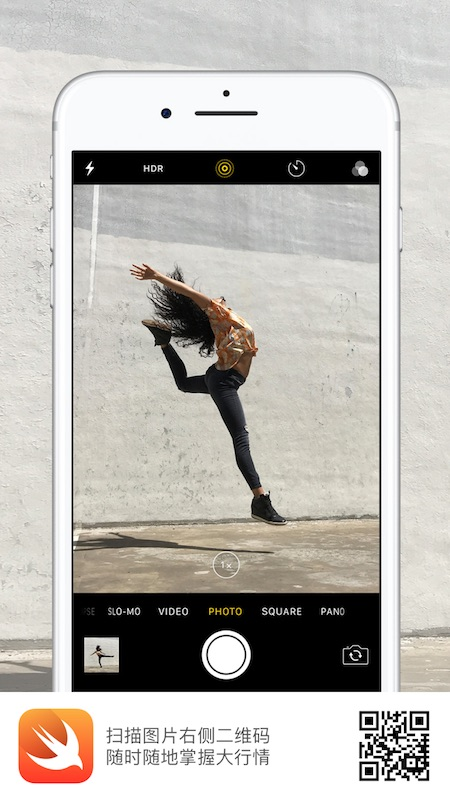
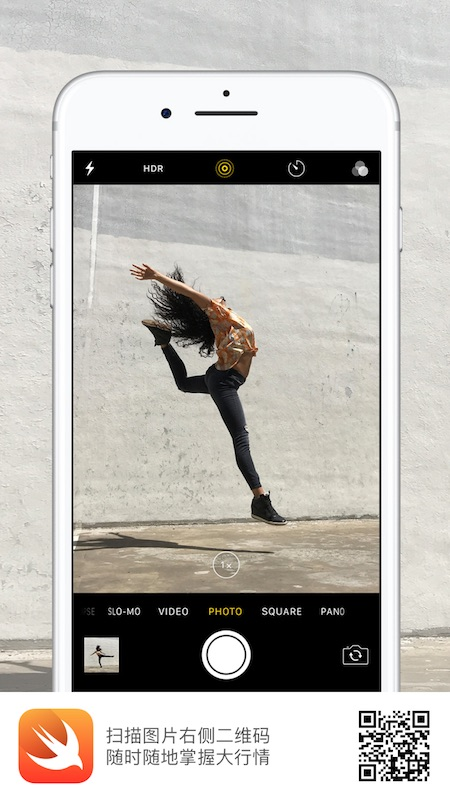
修改例子

Changed region(s): [[0.7778, 0.875, 0.9644, 1.0]]

diff --git a/CHScreenShot/CHScreenShot/ViewController.swift b/CHScreenShot/CHScreenShot/ViewController.swift
@@ -38,7 +38,7 @@ class ViewController: UIViewController {
             //把image转为分享的图片样式
             let newImage = screenShotView.screenshotImage.ch_addShareInfo(
                 appLogo: UIImage(named: "swift")!,
-                qrCode: "www.chbtc.com",
+                qrCode: "https://www.chbtc.com",
                 shareText: "扫描图片右侧二维码\n随时随地掌握大行情")
             
             //展示效果图
